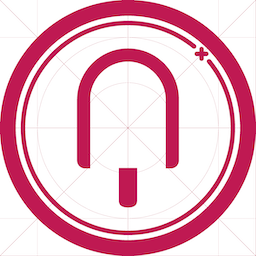
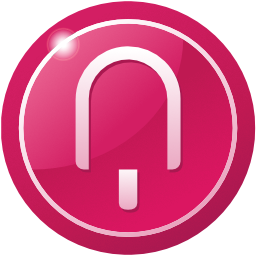
Updated the visual assets.

diff --git a/merchant.html b/merchant.html
@@ -26,7 +26,7 @@
      data-auto-focus="false">
     <ul class="vertical menu">
         <li>
-            <img src="img/logo/plumpop_logo_icon_23x36.png"
+            <img src="img/logo/plumpop_logo_icon_23x36.jpg"
                  width="23"
                  height="36"
                  alt="PlumPop Logo Icon">
@@ -52,16 +52,16 @@
                         type="button"
                         class="menu-icon"
                         data-open="off-canvas"></button>
-                <img src="img/logo/plumpop_logo_icon_name_maroon_flush_background_white_162x48.png"
-                     width="162"
+                <img src="img/logo/plumpop_logo_icon_name_maroon_flush_background_white_190x48.jpg"
+                     width="190"
                      height="48"
                      alt="PlumPop Logo">
             </div>
         </div>
         <div class="top-bar show-for-medium">
             <div class="top-bar-left">
-                <img src="img/logo/plumpop_logo_icon_name_maroon_flush_background_white_233x69.png"
-                     width="233"
+                <img src="img/logo/plumpop_logo_icon_name_maroon_flush_background_white_259x69.jpg"
+                     width="259"
                      height="69"
                      alt="PlumPop Logo">
             </div>
@@ -78,15 +78,10 @@
         </div>
     </nav>
     <section>
-        <div class="grid-y headliner" style="background-color: black">
+        <div class="grid-y headliner"
+             data-interchange="[img/merchant/merchant_main_640x600.jpg, small], [img/merchant/merchant_main_955x600.jpg, medium]">
             <div class="cell text-center">
                 <p>We're Here to Help.</p>
-            </div>
-            <div class="cell text-center" style="color:#fff">
-                <p style="margin-top: 1rem">
-                    [photo inside a café with a line of customers and a barista taking an order of a customer at the
-                    counter]
-                </p>
             </div>
         </div>
         <div class="grid-container">
@@ -153,11 +148,11 @@
                         <div class="cell">
                             <div class="grid-x align-middle">
                                 <div class="cell medium-1 text-center">
-                                    <img src="img/consumer/plumpop_coin_256x256.png"
+                                    <img src="img/merchant/benefits/rewards_control_icon_100x100.png"
                                          width="100"
                                          height="100"
                                          class="benefits-icon"
-                                         alt="PlumPop Token">
+                                         alt="Rewards Control">
                                 </div>
                                 <div class="cell medium-10">
                                     <p class="benefits-description-left">
@@ -175,22 +170,22 @@
                                     </p>
                                 </div>
                                 <div class="cell small-order-1 medium-order-2 medium-1 text-center">
-                                    <img src="img/consumer/plumpop_coin_256x256.png"
+                                    <img src="img/merchant/benefits/keep_profits_icon_100x100.png"
                                          width="100"
                                          height="100"
                                          class="benefits-icon"
-                                         alt="PlumPop Token">
+                                         alt="Keep Profits">
                                 </div>
                             </div>
                         </div>
                         <div class="cell">
                             <div class="grid-x align-middle">
                                 <div class="cell medium-1 text-center">
-                                    <img src="img/consumer/plumpop_coin_256x256.png"
+                                    <img src="img/merchant/benefits/customer_service_icon_100x100.png"
                                          width="100"
                                          height="100"
                                          class="benefits-icon"
-                                         alt="PlumPop Token">
+                                         alt="Customer Service">
                                 </div>
                                 <div class="cell medium-10">
                                     <p class="benefits-description-left">
@@ -209,22 +204,22 @@
                                     </p>
                                 </div>
                                 <div class="cell small-order-1 medium-order-2 medium-1 text-center">
-                                    <img src="img/consumer/plumpop_coin_256x256.png"
+                                    <img src="img/merchant/benefits/account_tracking_icon_100x100.png"
                                          width="100"
                                          height="100"
                                          class="benefits-icon"
-                                         alt="PlumPop Token">
+                                         alt="Account Tracking">
                                 </div>
                             </div>
                         </div>
                         <div class="cell">
                             <div class="grid-x align-middle">
                                 <div class="cell medium-1 text-center">
-                                    <img src="img/consumer/plumpop_coin_256x256.png"
+                                    <img src="img/merchant/benefits/speed_icon_100x100.png"
                                          width="100"
                                          height="100"
                                          class="benefits-icon"
-                                         alt="PlumPop Token">
+                                         alt="Speed">
                                 </div>
                                 <div class="cell medium-10">
                                     <p class="benefits-description-left">
@@ -245,22 +240,22 @@
                                     </p>
                                 </div>
                                 <div class="cell small-order-1 medium-order-2 medium-1 text-center">
-                                    <img src="img/consumer/plumpop_coin_256x256.png"
+                                    <img src="img/merchant/benefits/payment_flexibility_icon_100x100.png"
                                          width="100"
                                          height="100"
                                          class="benefits-icon"
-                                         alt="PlumPop Token">
+                                         alt="Payment Flexibility">
                                 </div>
                             </div>
                         </div>
                         <div class="cell">
                             <div class="grid-x align-middle">
                                 <div class="cell medium-1 text-center">
-                                    <img src="img/consumer/plumpop_coin_256x256.png"
+                                    <img src="img/merchant/benefits/anti_fraud_icon_100x100.png"
                                          width="100"
                                          height="100"
                                          class="benefits-icon"
-                                         alt="PlumPop Token">
+                                         alt="Anti-Fraud">
                                 </div>
                                 <div class="cell medium-10">
                                     <p class="benefits-description-left">
@@ -281,22 +276,22 @@
                                     </p>
                                 </div>
                                 <div class="cell small-order-1 medium-order-2 medium-1 text-center">
-                                    <img src="img/consumer/plumpop_coin_256x256.png"
+                                    <img src="img/merchant/benefits/privacy_icon_100x100.png"
                                          width="100"
                                          height="100"
                                          class="benefits-icon"
-                                         alt="PlumPop Token">
+                                         alt="Privacy">
                                 </div>
                             </div>
                         </div>
                         <div class="cell">
                             <div class="grid-x align-middle">
                                 <div class="cell medium-1 text-center">
-                                    <img src="img/consumer/plumpop_coin_256x256.png"
+                                    <img src="img/merchant/benefits/contactless_icon_100x100.png"
                                          width="100"
                                          height="100"
                                          class="benefits-icon"
-                                         alt="PlumPop Token">
+                                         alt="Contactless">
                                 </div>
                                 <div class="cell medium-10">
                                     <p class="benefits-description-left">
@@ -319,11 +314,11 @@
                                     </p>
                                 </div>
                                 <div class="cell small-order-1 medium-order-2 medium-1 text-center">
-                                    <img src="img/consumer/plumpop_coin_256x256.png"
+                                    <img src="img/merchant/benefits/your_logo_icon_100x100.png"
                                          width="100"
                                          height="100"
                                          class="benefits-icon"
-                                         alt="PlumPop Token">
+                                         alt="Your Logo">
                                 </div>
                             </div>
                         </div>
@@ -367,7 +362,7 @@
                         <div class="cell medium-4 included-item">
                             <div class="grid-y text-center">
                                 <div class="cell">
-                                    <img src="img/merchant/plumpop_barcode_scanner_256x256.png"
+                                    <img src="img/merchant/plumpop_barcode_scanner_256x256.jpg"
                                          width="256"
                                          height="256"
                                          alt="Barcode Scanner">

diff --git a/index.html b/index.html
@@ -27,7 +27,7 @@
      data-auto-focus="false">
     <ul class="vertical menu">
         <li>
-            <img src="img/logo/plumpop_logo_icon_23x36.png"
+            <img src="img/logo/plumpop_logo_icon_23x36.jpg"
                  width="23"
                  height="36"
                  alt="PlumPop Logo Icon">
@@ -53,16 +53,16 @@
                         type="button"
                         class="menu-icon"
                         data-open="off-canvas"></button>
-                <img src="img/logo/plumpop_logo_icon_name_maroon_flush_background_white_162x48.png"
-                     width="162"
+                <img src="img/logo/plumpop_logo_icon_name_maroon_flush_background_white_190x48.jpg"
+                     width="190"
                      height="48"
                      alt="PlumPop Logo">
             </div>
         </div>
         <div class="top-bar show-for-medium">
             <div class="top-bar-left">
-                <img src="img/logo/plumpop_logo_icon_name_maroon_flush_background_white_233x69.png"
-                     width="233"
+                <img src="img/logo/plumpop_logo_icon_name_maroon_flush_background_white_259x69.jpg"
+                     width="259"
                      height="69"
                      alt="PlumPop Logo">
             </div>
@@ -80,7 +80,7 @@
     </nav>
     <section>
         <div class="grid-y headliner"
-             data-interchange="[img/consumer/consumer_main_640x600.jpg, small], [img/consumer/consumer_main_1500x851.jpg, medium]">
+             data-interchange="[img/consumer/consumer_main_640x600.jpg, small], [img/consumer/consumer_main_1920x829.jpg, medium]">
             <div class="cell">
                 <p>Make every cup count.</p>
             </div>
@@ -131,9 +131,9 @@
                         <div class="cell large-6">
                             <div class="grid-x">
                                 <div class="cell medium-offset-1 medium-5 large-offset-0 large-7 text-center">
-                                    <img src="img/consumer/plumpop_mobile_app_screenshot_256x513.png"
+                                    <img src="img/consumer/plumpop_mobile_app_screenshot_256x740.jpg"
                                          width="256"
-                                         height="513"
+                                         height="740"
                                          alt="PlumPop Mobile Application Screenshot">
                                 </div>
                                 <div class="cell small-offset-3 small-6 medium-offset-0 medium-6 large-5">
@@ -157,10 +157,10 @@
                         <div class="cell large-6">
                             <div class="grid-x">
                                 <div class="cell medium-order-2 medium-6 large-order-1 large-12 text-center">
-                                    <img src="img/consumer/plumpop_beacon_screenshot_256x256.png"
+                                    <img src="img/consumer/plumpop_beacon_screenshot_320x384.jpg"
                                          class="plumpop-beacon"
-                                         width="256"
-                                         height="256"
+                                         width="320"
+                                         height="384"
                                          alt="PlumPop Beacon">
                                 </div>
                                 <div class="cell medium-order-1 medium-6 large-order-2 large-12">

diff --git a/404.html b/404.html
@@ -22,16 +22,16 @@
 <nav>
     <div class="title-bar hide-for-medium">
         <div class="title-bar-left">
-            <img src="img/logo/plumpop_logo_icon_name_white_background_maroon_flush_162x48.png"
-                 width="162"
+            <img src="img/logo/plumpop_logo_icon_name_white_background_maroon_flush_192x48.jpg"
+                 width="192"
                  height="48"
                  alt="PlumPop Logo">
         </div>
     </div>
     <div class="top-bar show-for-medium">
         <div class="top-bar-left">
-            <img src="img/logo/plumpop_logo_icon_name_white_background_maroon_flush_233x69.png"
-                 width="233"
+            <img src="img/logo/plumpop_logo_icon_name_white_background_maroon_flush_261x69.jpg"
+                 width="261"
                  height="69"
                  alt="PlumPop Logo">
         </div>
@@ -43,9 +43,9 @@
         <div class="cell content">
             <div class="grid-x align-middle">
                 <div class="cell medium-offset-1 medium-4 large-offset-2 text-center">
-                    <img src="img/404/melting_popsicle_264x600.jpg"
-                         width="264"
-                         height="600"
+                    <img src="img/404/melting_popsicle_512x557.jpg"
+                         width="512"
+                         height="557"
                          alt="Melting Popsicle">
                 </div>
                 <div class="cell medium-7 large-4 text-center">

diff --git a/privacy.html b/privacy.html
@@ -26,7 +26,7 @@
      data-auto-focus="false">
     <ul class="vertical menu">
         <li>
-            <img src="img/logo/plumpop_logo_icon_23x36.png"
+            <img src="img/logo/plumpop_logo_icon_23x36.jpg"
                  width="23"
                  height="36"
                  alt="PlumPop Logo Icon">
@@ -52,16 +52,16 @@
                         type="button"
                         class="menu-icon"
                         data-open="off-canvas"></button>
-                <img src="img/logo/plumpop_logo_icon_name_maroon_flush_background_white_162x48.png"
-                     width="162"
+                <img src="img/logo/plumpop_logo_icon_name_maroon_flush_background_white_190x48.jpg"
+                     width="190"
                      height="48"
                      alt="PlumPop Logo">
             </div>
         </div>
         <div class="top-bar show-for-medium">
             <div class="top-bar-left">
-                <img src="img/logo/plumpop_logo_icon_name_maroon_flush_background_white_233x69.png"
-                     width="233"
+                <img src="img/logo/plumpop_logo_icon_name_maroon_flush_background_white_259x69.jpg"
+                     width="259"
                      height="69"
                      alt="PlumPop Logo">
             </div>

diff --git a/terms.html b/terms.html
@@ -26,7 +26,7 @@
      data-auto-focus="false">
     <ul class="vertical menu">
         <li>
-            <img src="img/logo/plumpop_logo_icon_23x36.png"
+            <img src="img/logo/plumpop_logo_icon_23x36.jpg"
                  width="23"
                  height="36"
                  alt="PlumPop Logo Icon">
@@ -52,16 +52,16 @@
                         type="button"
                         class="menu-icon"
                         data-open="off-canvas"></button>
-                <img src="img/logo/plumpop_logo_icon_name_maroon_flush_background_white_162x48.png"
-                     width="162"
+                <img src="img/logo/plumpop_logo_icon_name_maroon_flush_background_white_190x48.jpg"
+                     width="190"
                      height="48"
                      alt="PlumPop Logo">
             </div>
         </div>
         <div class="top-bar show-for-medium">
             <div class="top-bar-left">
-                <img src="img/logo/plumpop_logo_icon_name_maroon_flush_background_white_233x69.png"
-                     width="233"
+                <img src="img/logo/plumpop_logo_icon_name_maroon_flush_background_white_259x69.jpg"
+                     width="259"
                      height="69"
                      alt="PlumPop Logo">
             </div>

diff --git a/css/index.css b/css/index.css
@@ -4,6 +4,13 @@ div.headliner {
     background-size: cover;
 }
 
+/* large and up */
+@media screen and (min-width: 64em) {
+    div.headliner {
+        height: 850px;
+    }
+}
+
 div.headliner > div.cell:first-child {
     margin-top: 2.25rem;
 }
@@ -43,7 +50,7 @@ div.headliner > div.cell:first-child p {
 /* large and up */
 @media screen and (min-width: 64em) {
     div.headliner > div.cell:first-child {
-        margin-top: 27rem;
+        margin-top: 38rem;
     }
 
     div.headliner > div.cell {

diff --git a/css/merchant.css b/css/merchant.css
@@ -1,9 +1,18 @@
 div.headliner {
     height: 600px;
+    background-position: center;
+    background-size: cover;
+}
+
+/* large and up */
+@media screen and (min-width: 64em) {
+    div.headliner {
+        height: 850px;
+    }
 }
 
 div.headliner > div.cell:first-child p {
-    margin-top: 25rem;
+    margin-top: 40rem;
     font-weight: 500;
     color: #fff;
 }
